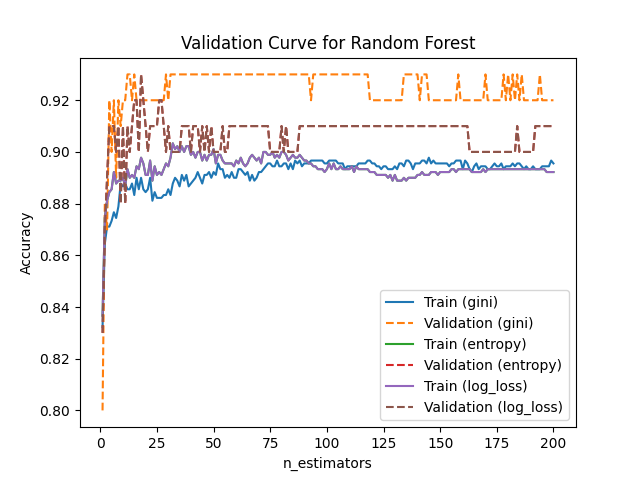
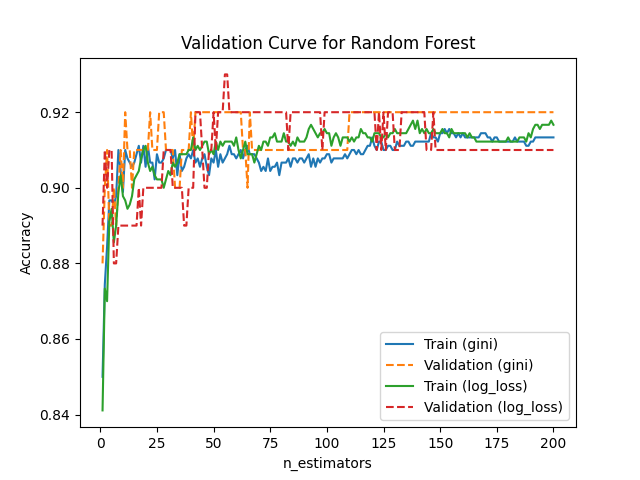
plot

diff --git a/adaB_validationCurve_learning_rate.py b/adaB_validationCurve_learning_rate.py
@@ -1,0 +1,64 @@
+from ucimlrepo import fetch_ucirepo 
+import pandas as pd
+from sklearn.model_selection import train_test_split
+from sklearn.ensemble import AdaBoostClassifier
+from sklearn import utils
+from sklearn.metrics import classification_report, accuracy_score
+from ucimlrepo import fetch_ucirepo
+import matplotlib.pyplot as plt
+from sklearn.model_selection import train_test_split, cross_val_score
+import matplotlib.pyplot as plt
+import numpy as np
+# fetch dataset 
+online_shoppers_purchasing_intention_dataset = fetch_ucirepo(id=468) 
+  
+# data (as pandas dataframes) 
+X = online_shoppers_purchasing_intention_dataset.data.features 
+
+y = online_shoppers_purchasing_intention_dataset.data.targets 
+y = y.values.ravel()
+X,y = utils.shuffle(X, y)
+
+X = X[:1000]
+y = y[:1000]
+X = pd.get_dummies(X, columns=['Month', 'VisitorType'])
+ 
+X_train, X_test, y_train, y_test = train_test_split(X, y, test_size=0.1, random_state=42, stratify=y)
+n_estimators_range = range(1, 151)
+learning_rate_range = np.linspace(0.1, 1.0, 20)  # Range for learning rate
+
+# Initialize empty lists to store validation scores
+train_scores = []
+val_scores = []
+
+# Iterate over different max_depth values
+for learning_rate in learning_rate_range:
+    # Create a Random Forest model with the current max_depth
+    ada_model = AdaBoostClassifier(learning_rate = learning_rate, random_state=42)
+
+    # Cross-validation on training data
+    train_score = cross_val_score(ada_model, X_train, y_train, cv=5).mean()
+    train_scores.append(train_score)
+
+    # Evaluate on validation set
+    ada_model.fit(X_train, y_train)
+    val_score = ada_model.score(X_test, y_test)
+    val_scores.append(val_score)
+
+# Plot the validation curve
+plt.plot(learning_rate_range, train_scores, label='Train')
+plt.plot(learning_rate_range, val_scores, label='Validation', linestyle='--')
+plt.xlabel('min_samples_split')
+plt.ylabel('Accuracy')
+plt.title('Validation Curve for Random Forest')
+plt.xticks(learning_rate_range)  # Adjust range if needed
+
+# Rotate x-axis labels for better readability
+plt.xticks(rotation=45) 
+
+plt.xlabel('n_estimators')
+plt.ylabel('Accuracy')
+plt.title('Validation Curve for AdaBoost')
+plt.savefig("Validation Curve for AdaBoost (learning_rate).png")
+plt.legend()
+plt.show()

diff --git a/adaB_validationCurve_n_estimators.py b/adaB_validationCurve_n_estimators.py
@@ -1,0 +1,58 @@
+from ucimlrepo import fetch_ucirepo 
+import pandas as pd
+from sklearn.model_selection import train_test_split
+from sklearn.ensemble import AdaBoostClassifier
+from sklearn.metrics import classification_report, accuracy_score
+from sklearn import utils
+from ucimlrepo import fetch_ucirepo
+import matplotlib.pyplot as plt
+from sklearn.model_selection import train_test_split, cross_val_score
+import matplotlib.pyplot as plt
+import numpy as np
+# fetch dataset 
+online_shoppers_purchasing_intention_dataset = fetch_ucirepo(id=468) 
+  
+# data (as pandas dataframes) 
+X = online_shoppers_purchasing_intention_dataset.data.features 
+
+y = online_shoppers_purchasing_intention_dataset.data.targets 
+y = y.values.ravel()
+X,y = utils.shuffle(X, y)
+
+X = X[:1000]
+y = y[:1000]
+X = pd.get_dummies(X, columns=['Month', 'VisitorType'])
+ 
+X_train, X_test, y_train, y_test = train_test_split(X, y, test_size=0.1, random_state=42, stratify=y)
+n_estimators_range = range(1, 151)
+
+# Initialize empty lists to store validation scores
+train_scores = []
+val_scores = []
+
+# Iterate over different n_estimators
+for n_estimators in n_estimators_range:
+    # Create a AdaBoost model with the current n_estimators
+    ada_model = AdaBoostClassifier(n_estimators=n_estimators, random_state=42)
+
+    # Cross-validation on training data
+    train_score = cross_val_score(ada_model, X_train, y_train, cv=5).mean()
+    train_scores.append(train_score)
+    print(f"Train:{train_score}")
+
+    # Evaluate on validation set
+    ada_model.fit(X_train, y_train)
+    val_score = ada_model.score(X_test, y_test)
+    # val_score = accuracy_score(y_test, ada_model.predict(X_test))
+    val_scores.append(val_score)
+    print(f"Validation:{val_scores}")
+
+# Plot the validation curve
+plt.plot(n_estimators_range, train_scores, label='Train')
+plt.plot(n_estimators_range, val_scores, label='Validation')
+plt.xlabel('n_estimators')
+plt.ylabel('Accuracy')
+plt.title('Validation Curve for AdaBoost')
+plt.legend()
+plt.savefig("Validation Curve for AdaBoost (n_estimators).png")
+plt.show()

diff --git a/rF_validationCurve_criterion.py b/rF_validationCurve_criterion.py
@@ -29,7 +29,7 @@ X = pd.get_dummies(X, columns=['Month', 'VisitorType'])
 X_train, X_test, y_train, y_test = train_test_split(X, y, test_size=0.1, random_state=42, stratify=y)
 
 n_estimators_range = range(1, 201)
-criterion_options = ["gini", "entropy", "log_loss"]  # List of splitting criteria
+criterion_options = ["gini", "log_loss"]  # List of splitting criteria
 
 # Initialize empty dictionaries to store validation scores for each criterion
 train_scores_dict = {}
@@ -68,5 +68,5 @@ plt.xlabel('n_estimators')
 plt.ylabel('Accuracy')
 plt.title('Validation Curve for Random Forest')
 plt.legend()
-plt.savefig("Validation Curve for Random Forest (criteria).png")
+plt.savefig("Validation Curve for Random Forest (criterion).png")
 plt.show()
